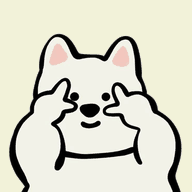
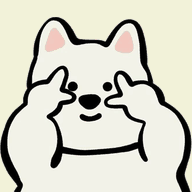
Figuren fuellen die Kachel randlos

Changed region(s): [[0.0, 0.0625, 1.0, 1.0]]

diff --git a/index.html b/index.html
@@ -3320,7 +3320,7 @@ const AVATARE = 12;
 /* Die Versionsangabe hängt am Namen, damit ein überarbeitetes Motiv auch
    bei Geräten ankommt, die die alte Datei schon im Zwischenspeicher haben.
    Bei jeder Änderung an den Bildern wird die Zahl erhöht. */
-const AV_STAND = 2;
+const AV_STAND = 3;
 function avDatei(n){ return 'av-' + n + '.png?v=' + AV_STAND; }
 function avZufall(){
   /* Aus Vorname und Geburtsdatum eine Zahl bilden — gleicher Mensch,
